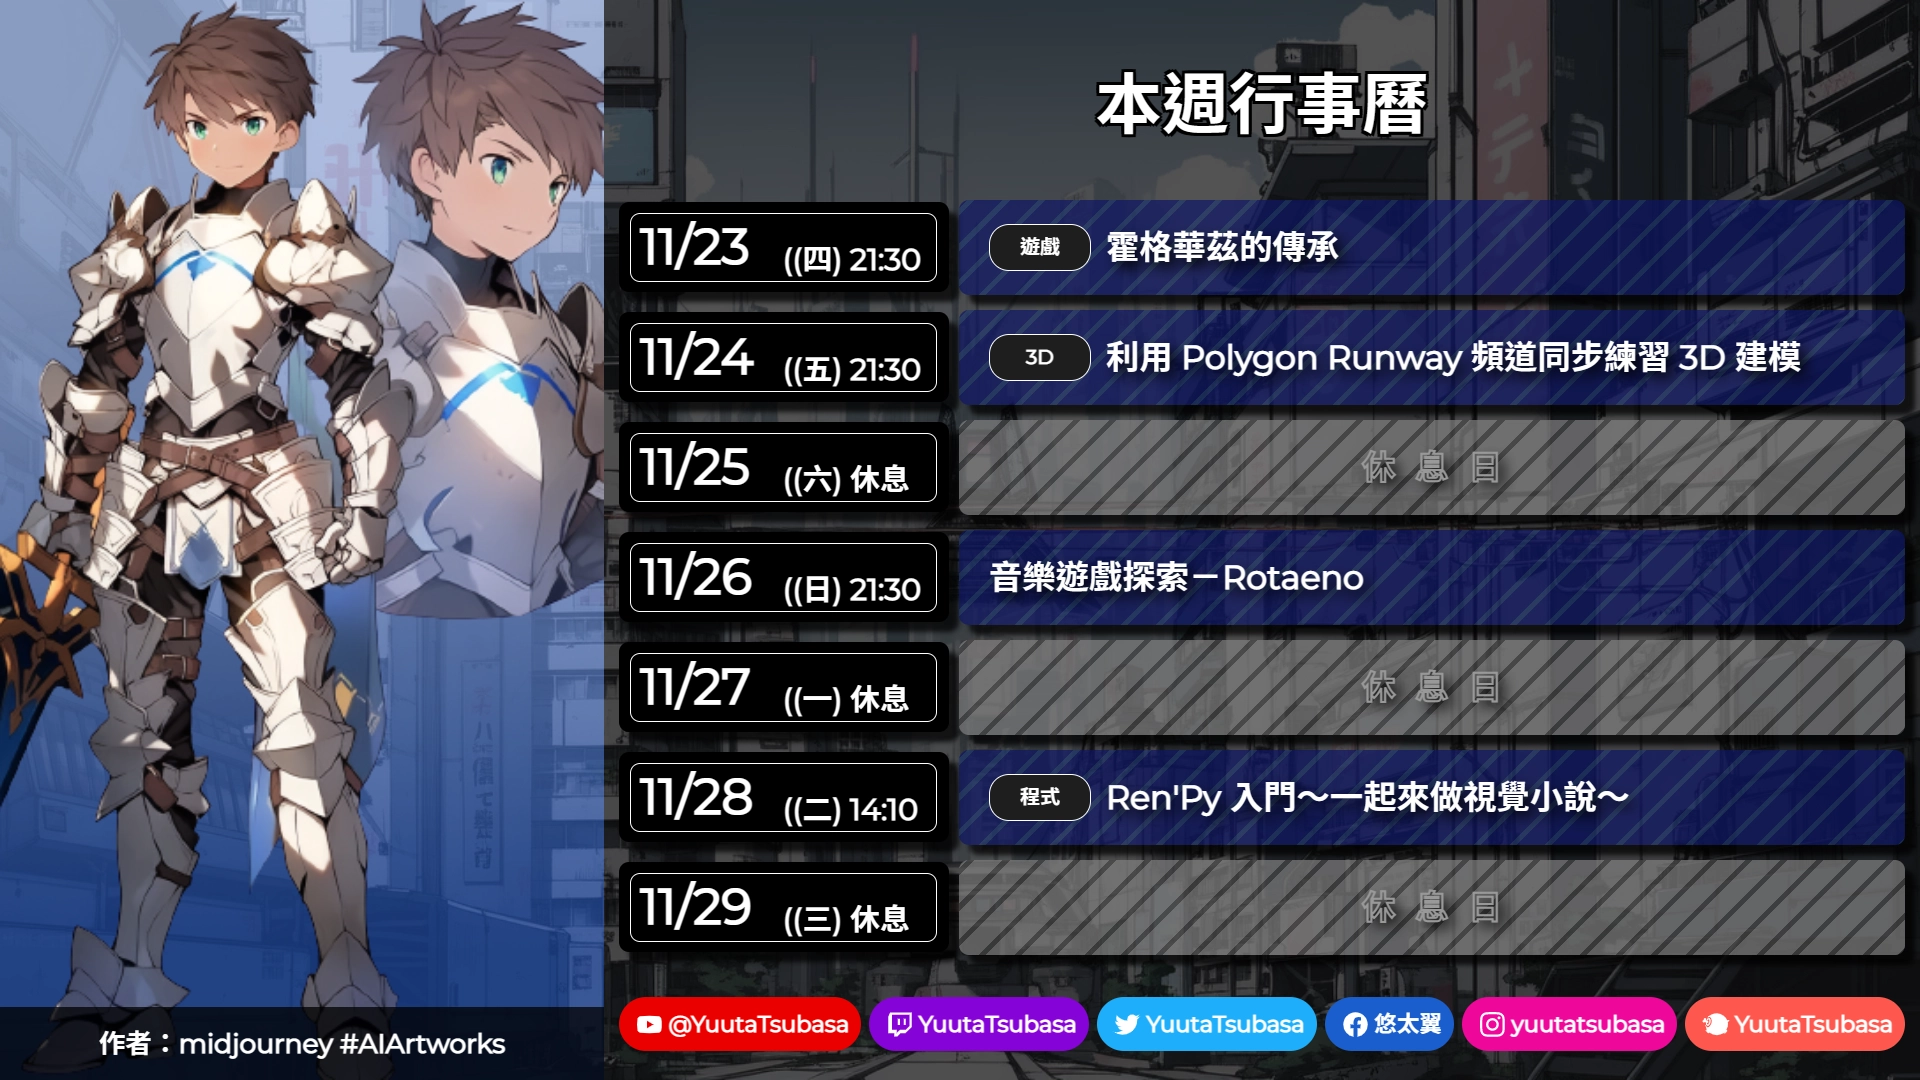
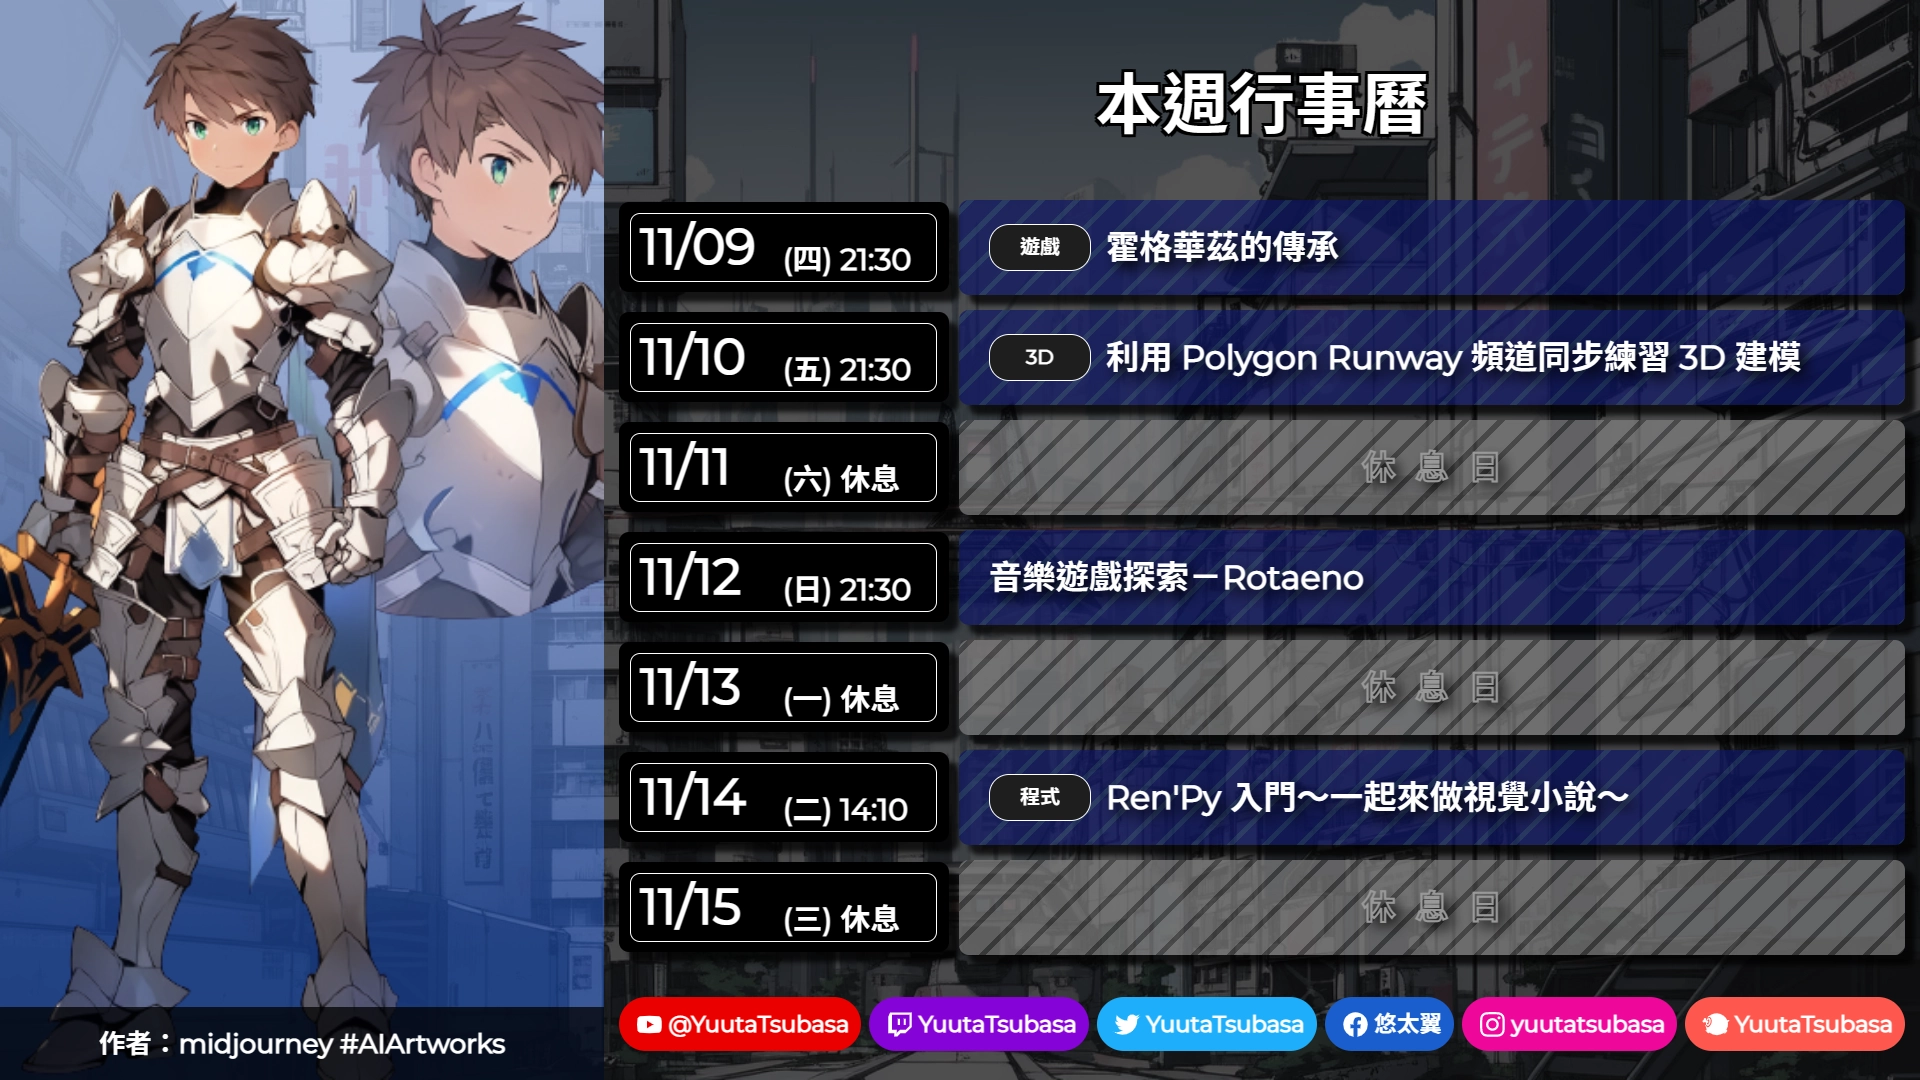
Deployment from Statiq

diff --git a/scripts/weekly.js b/scripts/weekly.js
@@ -101,7 +101,7 @@ document.addEventListener("DOMContentLoaded", function(){
 
                 if (weekdayPart) weekdayPart.innerText = weekday;
                 if (timeDescriptionPart) timeDescriptionPart.innerText = contents[day].time;
-                if (timePart) timePart.innerText = `(${weekday} ${contents[day].time}`;
+                if (timePart) timePart.innerText = `${weekday} ${contents[day].time}`;
                 
                 const content = dayItems[day].querySelector(".content");
                 if (contents[day].style === "holiday"){
